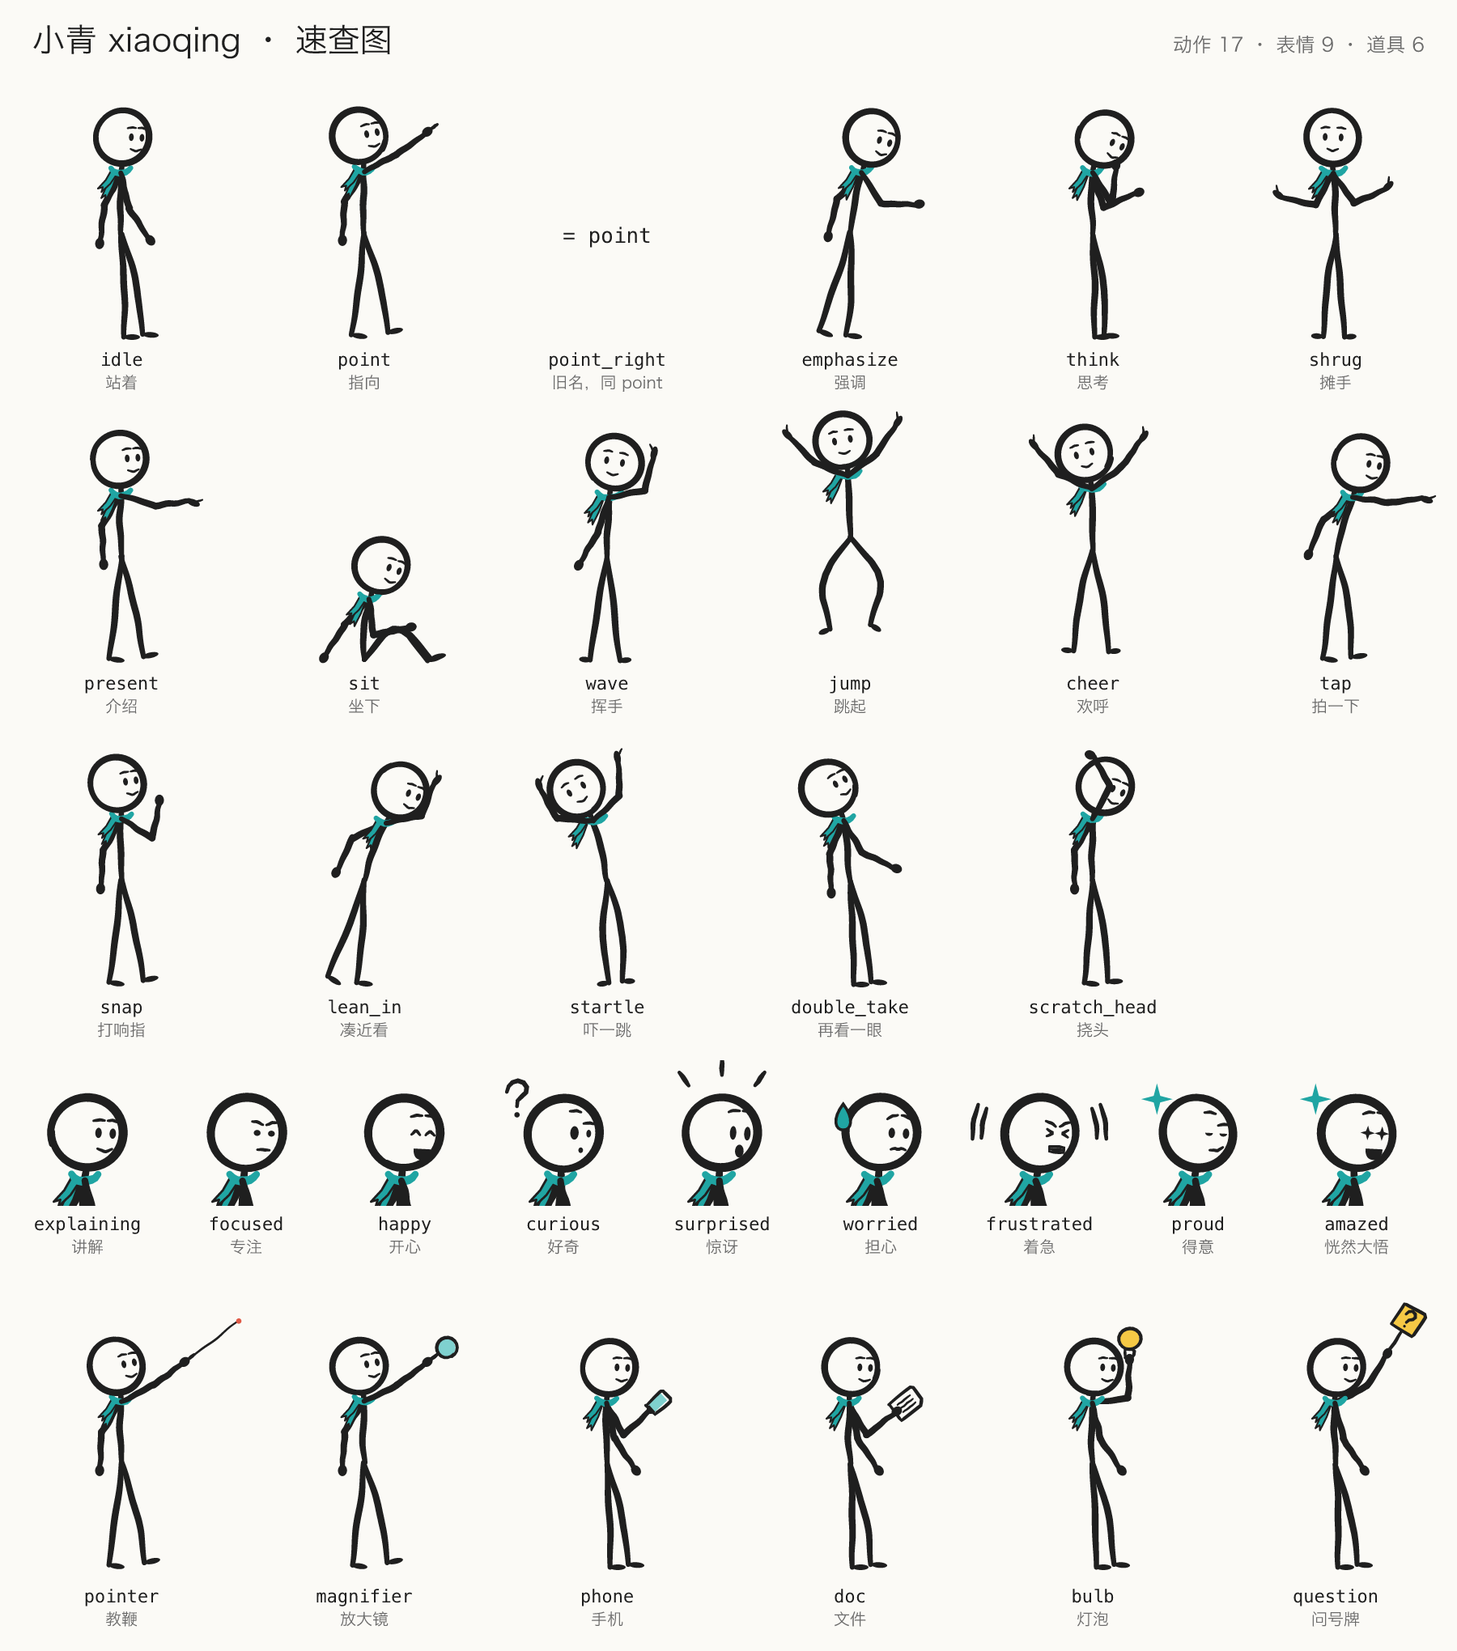
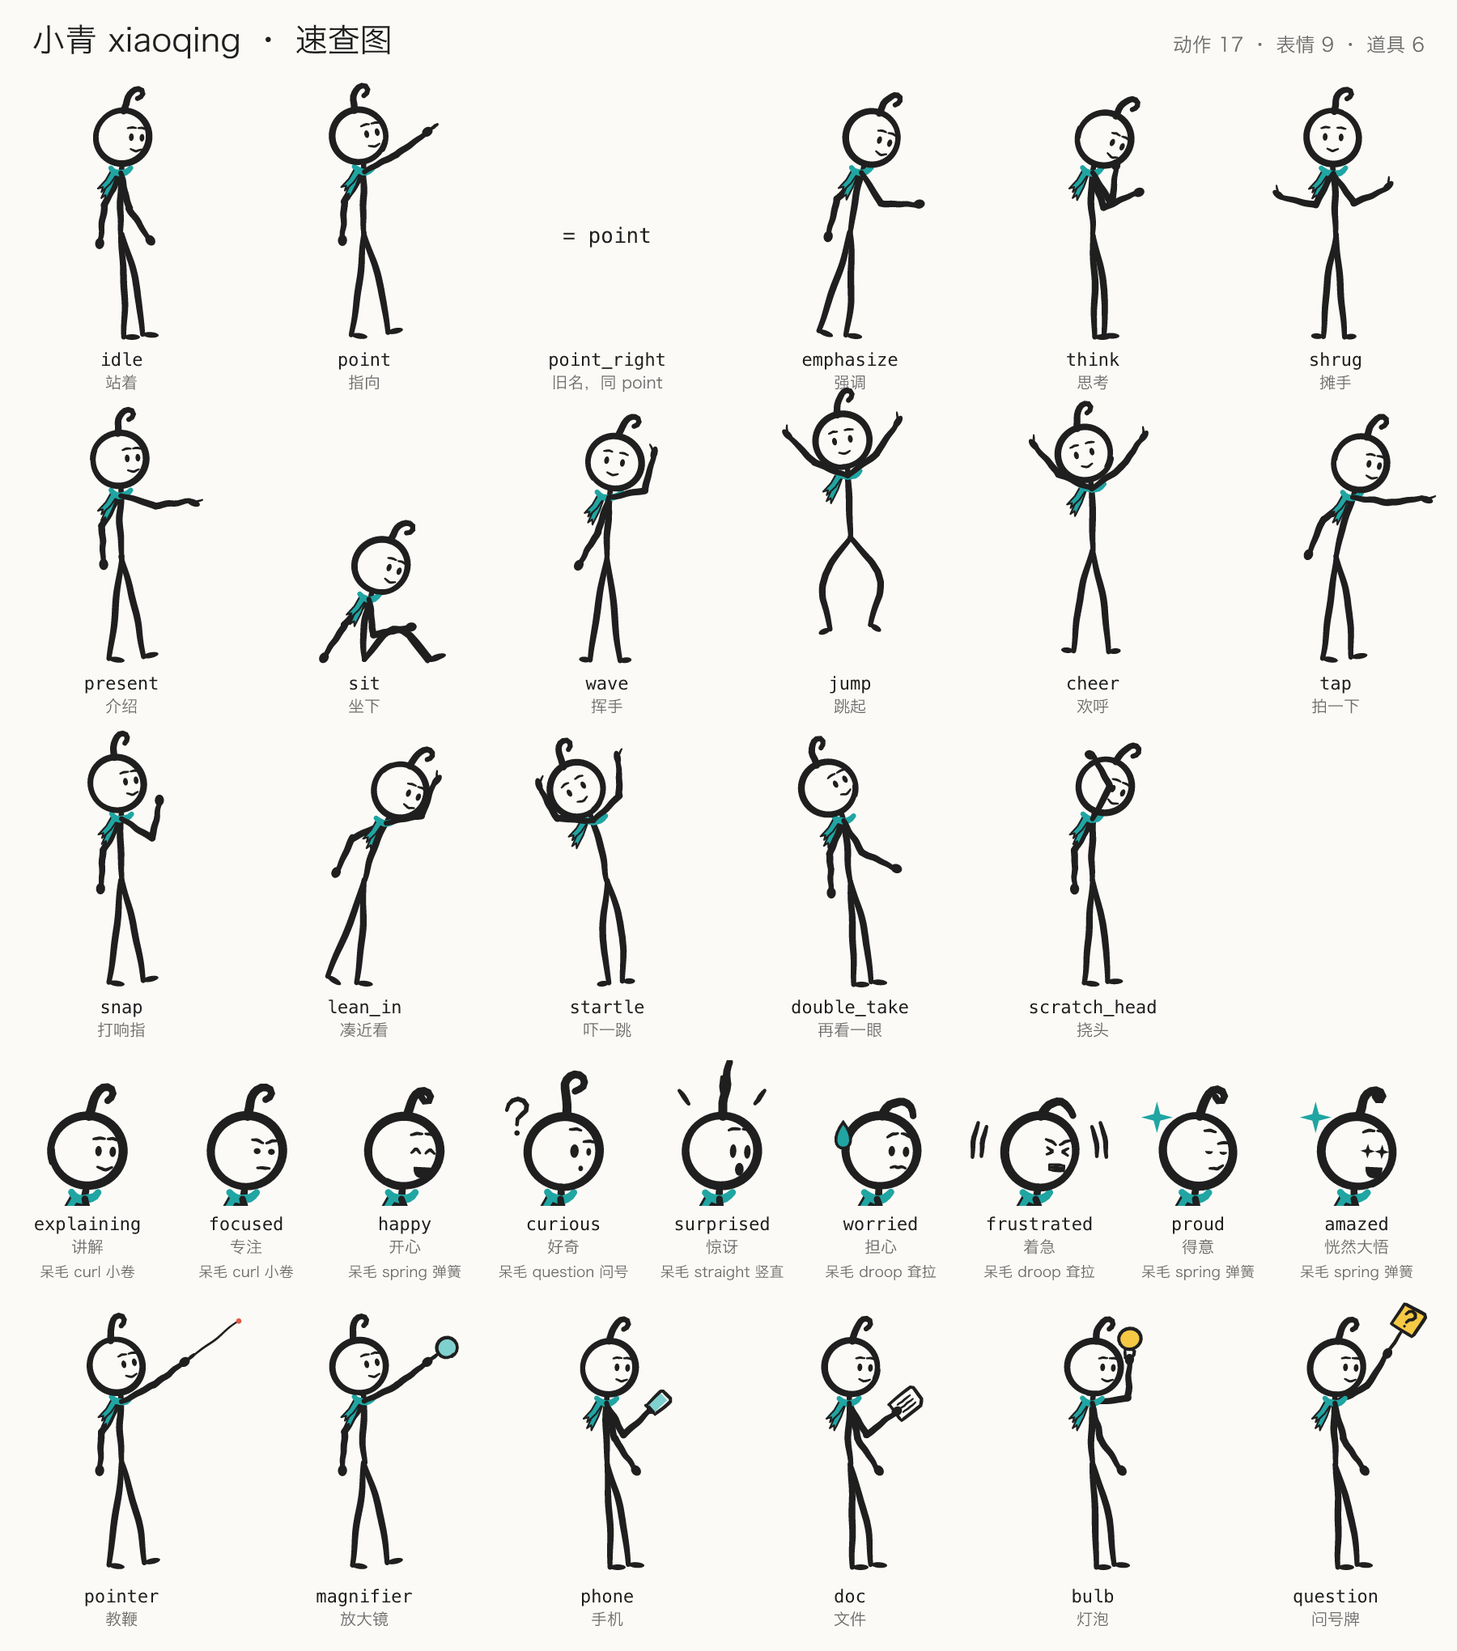
feat(host): draw 小青's 呆毛 and head squash, and add a 540p silhouette review sheet

diff --git a/site/index.html b/site/index.html
@@ -133,7 +133,7 @@ footer { padding: 32px 0 48px; color: var(--muted); font-size: 14px; border-top:
       <div class="status"><span class="pill ok">L0 文本包 · 可用 · 零依赖</span><span class="pill ok">L1 本地成片 · 1080p60/4K · 可用</span></div>
     </div>
     <div class="frame" role="img" aria-label="成片画面示意：火柴人小青在左下方挥手打招呼，上方流程图依次出现浏览器、本地副本、显示图标，底部字幕的关键词与图解同步高亮">
-      <div class="host"><!-- host:hero --><svg viewBox="0 0 320 480" aria-hidden="true"><g data-host="xiaoqing" data-gesture="wave" data-expr="happy" data-view="front"><path data-part="scarf_tail0" d="M154.9 166.23L146.08 191.2L134 214.56L133.56 205.52L126.23 211.01L136.2 187.33L143.59 162.48Z" fill="#20a5a3"/><path data-part="scarf_tail0_edge" d="M155.07 166.37L146.17 191.16L134.24 214.65L133.67 205.53L126.28 210.9L136.5 187.33L143.66 162.67Z" fill="none" stroke="#1f1f1f" stroke-width="3" stroke-linejoin="round"/><path data-part="scarf_tail1" d="M153.83 167.27L141.82 185.02L125.92 200.07L128.47 191.03L119.69 193.79L133.53 178.61L143.72 160.84Z" fill="#20a5a3"/><path data-part="scarf_tail1_edge" d="M154.46 167.7L142.31 185.56L126.56 200.33L129.08 191.55L120.32 194.13L134.16 179.1L144.28 161.34Z" fill="none" stroke="#1f1f1f" stroke-width="3" stroke-linejoin="round"/><path data-part="spine" d="M164.65 274.39L164.59 268.19L164.35 261.99L164.06 255.79L163.88 249.59L163.96 243.41L164.39 237.25L165.11 231.1L165.96 224.97L166.8 218.83L167.43 212.71L167.85 206.58L168.01 200.43L168.14 194.29L168.28 188.08L168.55 181.89L168.97 175.7L169.49 169.52L169.95 163.34L170.24 157.15L170.24 150.93A4.4 4.4 0 0 0 161.46 150.32L160.96 156.5L160.19 162.66L159.26 168.81L158.32 174.96L157.51 181.11L156.92 187.29L156.51 193.47L156.19 199.71L155.9 205.95L155.44 212.17L154.85 218.4L154.13 224.62L153.46 230.86L153 237.1L152.89 243.36L153.2 249.59L153.81 255.79L154.56 261.99L155.29 268.19L155.85 274.39A4.4 4.4 0 0 0 164.65 274.39Z" fill="#1f1f1f"/><g data-limb="r_leg"><path data-part="r_leg" d="M155.25 273.38L153.5 279.21L151.77 285.04L150.11 290.88L148.53 296.75L147.08 302.64L145.76 308.56L144.56 314.5L143.48 320.47L142.47 326.5L141.57 332.59L140.77 338.64L139.94 344.66L139.03 350.71L138.17 356.78L137.26 362.79L136.28 368.78L135.24 374.82L134.34 380.88L133.45 386.88L132.6 392.91L131.84 399L131.28 405.09L130.8 411.13L130.39 417.19L130.01 423.24L129.64 429.3L129.24 435.36L128.78 441.41L128.24 447.45L127.61 453.48A4.4 4.4 0 0 0 136.36 454.4L137.33 448.4L138.19 442.4L138.97 436.38L139.68 430.36L140.35 424.33L141.01 418.3L141.69 412.28L142.4 406.25L143.16 400.29L144.07 394.38L145.07 388.42L146.08 382.43L147.05 376.54L148.12 370.66L149.11 364.67L149.99 358.7L150.78 352.77L151.58 346.82L152.29 340.78L152.94 334.77L153.62 328.79L154.41 322.8L155.26 316.78L156.2 310.78L157.25 304.8L158.41 298.85L159.68 292.92L161.03 287.01L162.44 281.11L163.86 275.21A4.4 4.4 0 0 0 155.25 273.38Z" fill="#1f1f1f"/><ellipse cx="121.02" cy="452.79" rx="10.5" ry="5" transform="rotate(186 121.02 452.79)" fill="#1f1f1f"/></g><g data-limb="l_leg"><path data-part="l_leg" d="M156.37 274.9L156.68 280.98L156.94 287.07L157.2 293.16L157.5 299.24L157.86 305.32L158.33 311.38L158.93 317.42L159.68 323.44L160.56 329.43L161.55 335.38L162.63 341.35L163.8 347.31L165 353.25L166.16 359.2L167.28 365.16L168.33 371.15L169.28 377.12L170.07 383.12L170.75 389.15L171.34 395.18L171.82 401.21L172.21 407.25L172.58 413.31L172.96 419.37L173.39 425.43L173.89 431.48L174.48 437.51L175.16 443.54L175.95 449.56L176.82 455.57A4.4 4.4 0 0 0 185.57 454.65L185.03 448.6L184.58 442.55L184.21 436.49L183.93 430.42L183.73 424.34L183.59 418.26L183.46 412.17L183.33 406.08L183.14 399.98L182.83 393.88L182.4 387.82L181.84 381.78L181.13 375.72L180.22 369.69L179.19 363.7L178.05 357.72L176.83 351.73L175.54 345.76L174.26 339.81L173.02 333.85L171.84 327.87L170.75 321.89L169.77 315.9L168.91 309.89L168.16 303.87L167.5 297.84L166.9 291.8L166.32 285.75L165.72 279.71L165.08 273.67A4.4 4.4 0 0 0 156.37 274.9Z" fill="#1f1f1f"/><ellipse cx="192.65" cy="453.9" rx="10.5" ry="5" transform="rotate(-6 192.65 453.9)" fill="#1f1f1f"/></g><g data-part="scarf"><path data-part="scarf_ring" d="M138.68 161.17L143.58 165.7L149.62 169.87L156.31 172.15L163.77 174.11L171.29 172.41L178.16 170.45L184.29 166.16L188.65 160.95A4.4 4.4 0 0 0 182.79 154.39L178.29 158.13L173.89 160.25L168.44 161.01L163.77 162.11L159.16 160.75L153.88 159.67L149.59 157.67L144.55 154.61A4.4 4.4 0 0 0 138.68 161.17Z" fill="#20a5a3"/></g><g data-joint="head" style="transform-origin:164.88px 150.56px"><path data-part="head" d="M203.69 76.61L207.22 81.13L209.99 85.74L212.2 90.65L213.79 95.81L214.73 101.16L214.99 106.6L214.53 112.06L213.34 117.44L211.42 122.62L208.81 127.5L205.54 131.98L201.68 135.97L197.3 139.38L192.49 142.15L187.37 144.22L182.03 145.59L176.6 146.22L171.15 146.1L165.78 145.28L160.58 143.79L155.63 141.69L150.99 139.01L146.73 135.79L142.89 132.08L139.53 127.93L136.71 123.4L134.48 118.55L132.88 113.44L131.95 108.16L131.72 102.79L132.21 97.43L133.42 92.19L135.33 87.15L137.9 82.44L141.11 78.17L144.88 74.36L149.1 71.1L153.69 68.43L158.57 66.39L163.65 64.98L168.84 64.21L174.07 64.07L179.28 64.55L184.39 65.64L189.36 67.32L194.12 69.58L198.61 72.41L202.76 75.77L206.5 79.65L209.76 84.01L212.59 89.06A4.4 4.4 0 0 0 220.54 85.29L217.62 79.62L213.89 74.17L209.52 69.25L204.59 64.92L199.18 61.22L193.37 58.21L187.24 55.91L180.87 54.36L174.34 53.59L167.73 53.61L161.15 54.46L154.68 56.14L148.45 58.65L142.56 61.97L137.13 66.06L132.27 70.87L128.07 76.34L124.69 82.37L122.17 88.8L120.55 95.52L119.85 102.4L120.08 109.31L121.22 116.12L123.24 122.72L126.1 129L129.73 134.85L134.07 140.2L139.05 144.96L144.58 149.06L150.59 152.45L157 155.05L163.69 156.83L170.58 157.75L177.57 157.75L184.51 156.78L191.24 154.9L197.65 152.12L203.63 148.49L209.04 144.09L213.77 138.98L217.75 133.29L220.89 127.14L223.14 120.64L224.49 113.94L224.93 107.17L224.48 100.45L223.18 93.89L221.07 87.59L218.23 81.64L214.69 76.12L210.67 71.24A4.4 4.4 0 0 0 203.69 76.61Z" fill="#1f1f1f"/><g data-face="happy" transform="translate(173.04 104.27) rotate(10) scale(1 1)"><g data-face-part="eyes" style="transform-origin:0px -0.94px"><path data-part="eye0" d="M-18.68 2.38L-16.93 0.91L-15.04 -0.43L-13.8 -1.3L-14.38 -1.35L-13.12 -0.47L-11.31 0.94L-9.56 2.41A1.6 1.6 0 0 0 -7.29 0.15L-8.68 -1.69L-10.2 -3.39L-12.42 -5.26L-15.75 -5.21L-17.96 -3.35L-19.56 -1.73L-20.94 0.11A1.6 1.6 0 0 0 -18.68 2.38Z" fill="#1f1f1f"/><path data-part="eye1" d="M9.57 2.42L11.52 1.15L13.25 -0.34L14.14 -1.82L13.98 -1.66L14.94 -0.32L16.77 1.06L18.55 2.51A1.6 1.6 0 0 0 20.81 0.25L19.4 -1.57L17.86 -3.25L15.93 -5.57L12.19 -5.73L10.33 -3.26L8.89 -1.48L7.3 0.16A1.6 1.6 0 0 0 9.57 2.42Z" fill="#1f1f1f"/></g><path data-part="brow0" d="M-20.85 -20.39L-18.68 -20.65L-16.52 -20.96L-14.69 -21.69L-13.06 -22.1L-11.18 -22.15L-9.04 -22.58L-6.91 -22.83A1.6 1.6 0 0 0 -6.84 -26.03L-8.97 -26.3L-11.1 -26.29L-13.48 -26.45L-15.91 -25.88L-17.96 -24.84L-19.97 -24.14L-21.97 -23.39A1.6 1.6 0 0 0 -20.85 -20.39Z" fill="#1f1f1f"/><path data-part="brow1" d="M6.91 -22.62L9.05 -22.41L11.18 -22.06L13.04 -21.9L14.73 -21.82L16.7 -21.46L18.71 -20.73L20.73 -20.05A1.6 1.6 0 0 0 21.84 -23.05L20 -24.22L18.14 -25.34L15.95 -26.02L13.46 -26.25L11.11 -26.2L8.98 -26.13L6.85 -25.82A1.6 1.6 0 0 0 6.91 -22.62Z" fill="#1f1f1f"/><path d="M-11.28 19.74L11.28 19.74Q11.28 34.4 0 34.4Q-11.28 34.4 -11.28 19.74Z" fill="#1f1f1f"/></g></g><g data-limb="r_arm"><path data-part="r_upper_arm" d="M160.37 165.42L158.44 171.52L155.97 177.44L153.09 183.24L150.32 189.07L148.06 195.06L146.21 201.19L144.27 207.29L141.92 213.26L139.37 219.16L137.11 225.15A6 6 0 0 0 148.53 228.86L150.74 222.85L153.19 216.92L155.35 210.89L157.04 204.71L158.59 198.48L160.48 192.37L162.84 186.41L165.28 180.47L167.28 174.39L168.74 168.14A4.4 4.4 0 0 0 160.37 165.42Z" fill="#1f1f1f"/><g data-joint="r_elbow" style="transform-origin:143.99px 227.39px"><path data-part="r_forearm" d="M139 224.51L135.9 230.42L132.68 236.25L128.76 241.69L124.81 247.11L121.84 253.09L119.63 259.51L117.02 265.7L113.67 271.47L110.35 277.25A4.4 4.4 0 0 0 117.97 281.65L121.78 276.15L125.59 270.65L128.64 264.71L131.25 258.52L134.56 252.73L138.79 247.48L142.91 242.16L146.25 236.39L149.39 230.51A6 6 0 0 0 139 224.51Z" fill="#1f1f1f"/><g data-hand="fist"><ellipse cx="109.99" cy="286.28" rx="10" ry="8" transform="rotate(120 109.99 286.28)" fill="#1f1f1f"/></g></g></g><g data-limb="l_arm"><path data-part="l_upper_arm" d="M164.54 170.52L170.87 169.5L177.09 168L183.38 166.82L189.82 166.39L196.29 166.12L202.63 165.22L208.87 163.77L215.16 162.58L221.57 162L227.97 161.4A6 6 0 0 0 225.68 149.62L219.28 150.26L212.9 150.95L206.65 152.33L200.46 154.04L194.18 155.26L187.78 155.91L181.43 156.76L175.23 158.39L169.09 160.37L162.87 161.88A4.4 4.4 0 0 0 164.54 170.52Z" fill="#1f1f1f"/><g data-joint="l_elbow" style="transform-origin:226.59px 154.31px"><path data-part="l_forearm" d="M231.39 155.5L233.77 149.23L236.25 142.98L237.84 136.5L238.58 129.81L239.35 123.14L240.78 116.62L242.65 110.22L244.36 103.77L245.69 97.23A4.4 4.4 0 0 0 237.15 95.1L235.28 101.51L233.05 107.82L230.69 114.1L228.82 120.51L227.66 127.09L226.61 133.7L224.8 140.12L222.17 146.34L219.75 152.6A6 6 0 0 0 231.39 155.5Z" fill="#1f1f1f"/><g data-hand="open"><ellipse cx="243.04" cy="88.33" rx="12" ry="6" transform="rotate(-76 243.04 88.33)" fill="#1f1f1f"/><path data-part="l_thumb" d="M244.31 87.71L243.44 85.46L242.59 83.21L241.93 80.86L240.75 78.77L239.25 76.83L238.16 74.69L237.05 72.56A1.5 1.5 0 0 0 234.35 73.88L235.07 76.19L235.85 78.48L237.18 80.51L238.36 82.6L239.19 84.87L240.35 86.97L241.61 89.03A1.5 1.5 0 0 0 244.31 87.71Z" fill="#1f1f1f"/></g></g></g></g></svg><!-- /host:hero --></div>
+      <div class="host"><!-- host:hero --><svg viewBox="0 0 320 480" aria-hidden="true"><g data-host="xiaoqing" data-gesture="wave" data-expr="happy" data-view="front"><path data-part="scarf_tail0" d="M154.9 166.23L146.08 191.2L134 214.56L133.56 205.52L126.23 211.01L136.2 187.33L143.59 162.48Z" fill="#20a5a3"/><path data-part="scarf_tail0_edge" d="M155.07 166.37L146.17 191.16L134.24 214.65L133.67 205.53L126.28 210.9L136.5 187.33L143.66 162.67Z" fill="none" stroke="#1f1f1f" stroke-width="3" stroke-linejoin="round"/><path data-part="scarf_tail1" d="M153.83 167.27L141.82 185.02L125.92 200.07L128.47 191.03L119.69 193.79L133.53 178.61L143.72 160.84Z" fill="#20a5a3"/><path data-part="scarf_tail1_edge" d="M154.46 167.7L142.31 185.56L126.56 200.33L129.08 191.55L120.32 194.13L134.16 179.1L144.28 161.34Z" fill="none" stroke="#1f1f1f" stroke-width="3" stroke-linejoin="round"/><path data-part="spine" d="M164.65 274.39L164.59 268.19L164.35 261.99L164.06 255.79L163.88 249.59L163.96 243.41L164.39 237.25L165.11 231.1L165.96 224.97L166.8 218.83L167.43 212.71L167.85 206.58L168.01 200.43L168.14 194.29L168.28 188.08L168.55 181.89L168.97 175.7L169.49 169.52L169.95 163.34L170.24 157.15L170.24 150.93A4.4 4.4 0 0 0 161.46 150.32L160.96 156.5L160.19 162.66L159.26 168.81L158.32 174.96L157.51 181.11L156.92 187.29L156.51 193.47L156.19 199.71L155.9 205.95L155.44 212.17L154.85 218.4L154.13 224.62L153.46 230.86L153 237.1L152.89 243.36L153.2 249.59L153.81 255.79L154.56 261.99L155.29 268.19L155.85 274.39A4.4 4.4 0 0 0 164.65 274.39Z" fill="#1f1f1f"/><g data-limb="r_leg"><path data-part="r_leg" d="M155.25 273.38L153.5 279.21L151.77 285.04L150.11 290.88L148.53 296.75L147.08 302.64L145.76 308.56L144.56 314.5L143.48 320.47L142.47 326.5L141.57 332.59L140.77 338.64L139.94 344.66L139.03 350.71L138.17 356.78L137.26 362.79L136.28 368.78L135.24 374.82L134.34 380.88L133.45 386.88L132.6 392.91L131.84 399L131.28 405.09L130.8 411.13L130.39 417.19L130.01 423.24L129.64 429.3L129.24 435.36L128.78 441.41L128.24 447.45L127.61 453.48A4.4 4.4 0 0 0 136.36 454.4L137.33 448.4L138.19 442.4L138.97 436.38L139.68 430.36L140.35 424.33L141.01 418.3L141.69 412.28L142.4 406.25L143.16 400.29L144.07 394.38L145.07 388.42L146.08 382.43L147.05 376.54L148.12 370.66L149.11 364.67L149.99 358.7L150.78 352.77L151.58 346.82L152.29 340.78L152.94 334.77L153.62 328.79L154.41 322.8L155.26 316.78L156.2 310.78L157.25 304.8L158.41 298.85L159.68 292.92L161.03 287.01L162.44 281.11L163.86 275.21A4.4 4.4 0 0 0 155.25 273.38Z" fill="#1f1f1f"/><ellipse cx="121.02" cy="452.79" rx="10.5" ry="5" transform="rotate(186 121.02 452.79)" fill="#1f1f1f"/></g><g data-limb="l_leg"><path data-part="l_leg" d="M156.37 274.9L156.68 280.98L156.94 287.07L157.2 293.16L157.5 299.24L157.86 305.32L158.33 311.38L158.93 317.42L159.68 323.44L160.56 329.43L161.55 335.38L162.63 341.35L163.8 347.31L165 353.25L166.16 359.2L167.28 365.16L168.33 371.15L169.28 377.12L170.07 383.12L170.75 389.15L171.34 395.18L171.82 401.21L172.21 407.25L172.58 413.31L172.96 419.37L173.39 425.43L173.89 431.48L174.48 437.51L175.16 443.54L175.95 449.56L176.82 455.57A4.4 4.4 0 0 0 185.57 454.65L185.03 448.6L184.58 442.55L184.21 436.49L183.93 430.42L183.73 424.34L183.59 418.26L183.46 412.17L183.33 406.08L183.14 399.98L182.83 393.88L182.4 387.82L181.84 381.78L181.13 375.72L180.22 369.69L179.19 363.7L178.05 357.72L176.83 351.73L175.54 345.76L174.26 339.81L173.02 333.85L171.84 327.87L170.75 321.89L169.77 315.9L168.91 309.89L168.16 303.87L167.5 297.84L166.9 291.8L166.32 285.75L165.72 279.71L165.08 273.67A4.4 4.4 0 0 0 156.37 274.9Z" fill="#1f1f1f"/><ellipse cx="192.65" cy="453.9" rx="10.5" ry="5" transform="rotate(-6 192.65 453.9)" fill="#1f1f1f"/></g><g data-part="scarf"><path data-part="scarf_ring" d="M138.68 161.17L143.58 165.7L149.62 169.87L156.31 172.15L163.77 174.11L171.29 172.41L178.16 170.45L184.29 166.16L188.65 160.95A4.4 4.4 0 0 0 182.79 154.39L178.29 158.13L173.89 160.25L168.44 161.01L163.77 162.11L159.16 160.75L153.88 159.67L149.59 157.67L144.55 154.61A4.4 4.4 0 0 0 138.68 161.17Z" fill="#20a5a3"/></g><g data-joint="head" style="transform-origin:164.88px 150.56px"><path data-part="head" d="M203.69 76.61L207.22 81.13L209.99 85.74L212.2 90.65L213.79 95.81L214.73 101.16L214.99 106.6L214.53 112.06L213.34 117.44L211.42 122.62L208.81 127.5L205.54 131.98L201.68 135.97L197.3 139.38L192.49 142.15L187.37 144.22L182.03 145.59L176.6 146.22L171.15 146.1L165.78 145.28L160.58 143.79L155.63 141.69L150.99 139.01L146.73 135.79L142.89 132.08L139.53 127.93L136.71 123.4L134.48 118.55L132.88 113.44L131.95 108.16L131.72 102.79L132.21 97.43L133.42 92.19L135.33 87.15L137.9 82.44L141.11 78.17L144.88 74.36L149.1 71.1L153.69 68.43L158.57 66.39L163.65 64.98L168.84 64.21L174.07 64.07L179.28 64.55L184.39 65.64L189.36 67.32L194.12 69.58L198.61 72.41L202.76 75.77L206.5 79.65L209.76 84.01L212.59 89.06A4.4 4.4 0 0 0 220.54 85.29L217.62 79.62L213.89 74.17L209.52 69.25L204.59 64.92L199.18 61.22L193.37 58.21L187.24 55.91L180.87 54.36L174.34 53.59L167.73 53.61L161.15 54.46L154.68 56.14L148.45 58.65L142.56 61.97L137.13 66.06L132.27 70.87L128.07 76.34L124.69 82.37L122.17 88.8L120.55 95.52L119.85 102.4L120.08 109.31L121.22 116.12L123.24 122.72L126.1 129L129.73 134.85L134.07 140.2L139.05 144.96L144.58 149.06L150.59 152.45L157 155.05L163.69 156.83L170.58 157.75L177.57 157.75L184.51 156.78L191.24 154.9L197.65 152.12L203.63 148.49L209.04 144.09L213.77 138.98L217.75 133.29L220.89 127.14L223.14 120.64L224.49 113.94L224.93 107.17L224.48 100.45L223.18 93.89L221.07 87.59L218.23 81.64L214.69 76.12L210.67 71.24A4.4 4.4 0 0 0 203.69 76.61Z" fill="#1f1f1f"/><g data-face="happy" transform="translate(173.04 104.27) rotate(10) scale(1 1)"><g data-face-part="eyes" style="transform-origin:0px -0.94px"><path data-part="eye0" d="M-18.68 2.38L-16.93 0.91L-15.04 -0.43L-13.8 -1.3L-14.38 -1.35L-13.12 -0.47L-11.31 0.94L-9.56 2.41A1.6 1.6 0 0 0 -7.29 0.15L-8.68 -1.69L-10.2 -3.39L-12.42 -5.26L-15.75 -5.21L-17.96 -3.35L-19.56 -1.73L-20.94 0.11A1.6 1.6 0 0 0 -18.68 2.38Z" fill="#1f1f1f"/><path data-part="eye1" d="M9.57 2.42L11.52 1.15L13.25 -0.34L14.14 -1.82L13.98 -1.66L14.94 -0.32L16.77 1.06L18.55 2.51A1.6 1.6 0 0 0 20.81 0.25L19.4 -1.57L17.86 -3.25L15.93 -5.57L12.19 -5.73L10.33 -3.26L8.89 -1.48L7.3 0.16A1.6 1.6 0 0 0 9.57 2.42Z" fill="#1f1f1f"/></g><path data-part="brow0" d="M-20.85 -20.39L-18.68 -20.65L-16.52 -20.96L-14.69 -21.69L-13.06 -22.1L-11.18 -22.15L-9.04 -22.58L-6.91 -22.83A1.6 1.6 0 0 0 -6.84 -26.03L-8.97 -26.3L-11.1 -26.29L-13.48 -26.45L-15.91 -25.88L-17.96 -24.84L-19.97 -24.14L-21.97 -23.39A1.6 1.6 0 0 0 -20.85 -20.39Z" fill="#1f1f1f"/><path data-part="brow1" d="M6.91 -22.62L9.05 -22.41L11.18 -22.06L13.04 -21.9L14.73 -21.82L16.7 -21.46L18.71 -20.73L20.73 -20.05A1.6 1.6 0 0 0 21.84 -23.05L20 -24.22L18.14 -25.34L15.95 -26.02L13.46 -26.25L11.11 -26.2L8.98 -26.13L6.85 -25.82A1.6 1.6 0 0 0 6.91 -22.62Z" fill="#1f1f1f"/><path d="M-11.28 19.74L11.28 19.74Q11.28 34.4 0 34.4Q-11.28 34.4 -11.28 19.74Z" fill="#1f1f1f"/></g><g data-ahoge="spring" transform="translate(173.04 104.27) rotate(10) scale(1 1)"><path data-part="ahoge" d="M5.51 -45.08L6.13 -51.33L7.36 -57.26L9.83 -62.56L12.97 -67.06L15.73 -70.96L18.1 -74.19L21.16 -76.01L24.14 -75.43L25.54 -73.38L25.48 -71.49L24.97 -70.72L22.35 -74.57A4.4 4.4 0 0 0 15 -69.73L20.57 -62.62L31.87 -64.28L35.5 -74.5L30.67 -83.53L21.59 -86.75L13.07 -84.04L7.29 -78.52L2.85 -72.66L-1.18 -66.67L-4.15 -60.25L-5.61 -53.65L-6.31 -47.18A6 6 0 0 0 5.51 -45.08Z" fill="#1f1f1f"/></g></g><g data-limb="r_arm"><path data-part="r_upper_arm" d="M160.37 165.42L158.44 171.52L155.97 177.44L153.09 183.24L150.32 189.07L148.06 195.06L146.21 201.19L144.27 207.29L141.92 213.26L139.37 219.16L137.11 225.15A6 6 0 0 0 148.53 228.86L150.74 222.85L153.19 216.92L155.35 210.89L157.04 204.71L158.59 198.48L160.48 192.37L162.84 186.41L165.28 180.47L167.28 174.39L168.74 168.14A4.4 4.4 0 0 0 160.37 165.42Z" fill="#1f1f1f"/><g data-joint="r_elbow" style="transform-origin:143.99px 227.39px"><path data-part="r_forearm" d="M139 224.51L135.9 230.42L132.68 236.25L128.76 241.69L124.81 247.11L121.84 253.09L119.63 259.51L117.02 265.7L113.67 271.47L110.35 277.25A4.4 4.4 0 0 0 117.97 281.65L121.78 276.15L125.59 270.65L128.64 264.71L131.25 258.52L134.56 252.73L138.79 247.48L142.91 242.16L146.25 236.39L149.39 230.51A6 6 0 0 0 139 224.51Z" fill="#1f1f1f"/><g data-hand="fist"><ellipse cx="109.99" cy="286.28" rx="10" ry="8" transform="rotate(120 109.99 286.28)" fill="#1f1f1f"/></g></g></g><g data-limb="l_arm"><path data-part="l_upper_arm" d="M164.54 170.52L170.87 169.5L177.09 168L183.38 166.82L189.82 166.39L196.29 166.12L202.63 165.22L208.87 163.77L215.16 162.58L221.57 162L227.97 161.4A6 6 0 0 0 225.68 149.62L219.28 150.26L212.9 150.95L206.65 152.33L200.46 154.04L194.18 155.26L187.78 155.91L181.43 156.76L175.23 158.39L169.09 160.37L162.87 161.88A4.4 4.4 0 0 0 164.54 170.52Z" fill="#1f1f1f"/><g data-joint="l_elbow" style="transform-origin:226.59px 154.31px"><path data-part="l_forearm" d="M231.39 155.5L233.77 149.23L236.25 142.98L237.84 136.5L238.58 129.81L239.35 123.14L240.78 116.62L242.65 110.22L244.36 103.77L245.69 97.23A4.4 4.4 0 0 0 237.15 95.1L235.28 101.51L233.05 107.82L230.69 114.1L228.82 120.51L227.66 127.09L226.61 133.7L224.8 140.12L222.17 146.34L219.75 152.6A6 6 0 0 0 231.39 155.5Z" fill="#1f1f1f"/><g data-hand="open"><ellipse cx="243.04" cy="88.33" rx="12" ry="6" transform="rotate(-76 243.04 88.33)" fill="#1f1f1f"/><path data-part="l_thumb" d="M244.31 87.71L243.44 85.46L242.59 83.21L241.93 80.86L240.75 78.77L239.25 76.83L238.16 74.69L237.05 72.56A1.5 1.5 0 0 0 234.35 73.88L235.07 76.19L235.85 78.48L237.18 80.51L238.36 82.6L239.19 84.87L240.35 86.97L241.61 89.03A1.5 1.5 0 0 0 244.31 87.71Z" fill="#1f1f1f"/></g></g></g></g></svg><!-- /host:hero --></div>
       <div class="diagram"><span class="node n1">浏览器</span><i class="arrow a1"></i><span class="node n2">本地副本</span><i class="arrow a2"></i><span class="node n3">显示图标</span></div>
       <p class="caption"><span>第二趟，浏览器直接拿<em>本地副本</em>来用。</span></p>
       <span class="badge">矢量渲染 · 1080p60</span>
